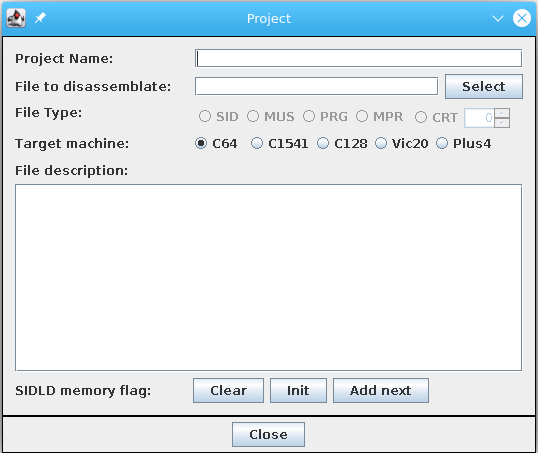
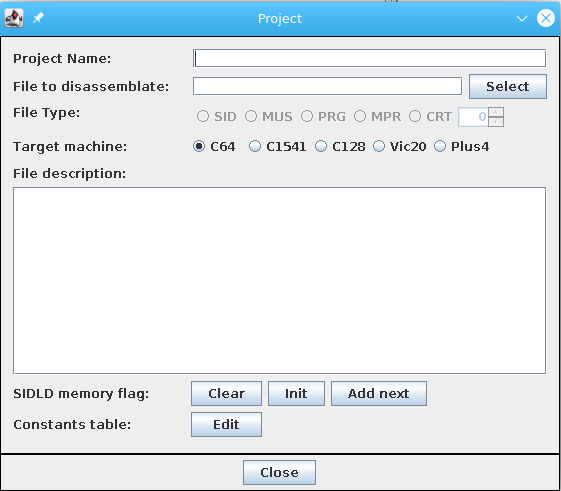
Update help

Changed region(s): [[0.0, 0.0, 1.0, 1.0]]

diff --git a/src/sw_emulator/swing/help/file.html b/src/sw_emulator/swing/help/file.html
@@ -37,6 +37,9 @@
           button or if you want a memory marked as all of code, than use <b>init</b> button.<br>
           Take present that you must apply the use of SIDLD with the function into the option menu
      </li>
+     <li><b>Edit Constant Table:</b> create constants of max 5 chars that you can associate to better format the code.
+     <p align="center"><img src="./constant1.png"></p>    
+     </li>
     </ul>
   <h2>Open project</h2>
   <p>The function let you open a previusly salved project by read a .dis file.<br>
